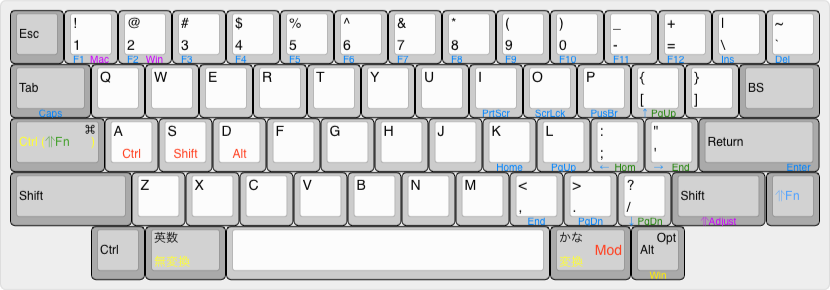
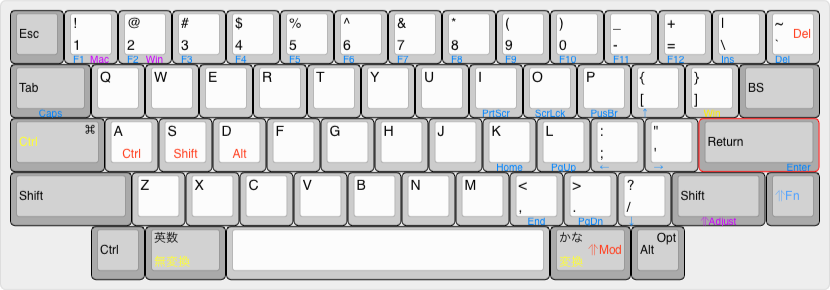
Remove windows extra function layer (and move win to Fn + ])

diff --git a/keyboards/hhkb/keymaps/qmotas/keymap.c b/keyboards/hhkb/keymaps/qmotas/keymap.c
@@ -5,14 +5,12 @@
 
 enum layers
 {
-    OSX_BASE = 0,
-    WIN_BASE,
-    WIN_CTRL,
-    FN_MODS,
-    FN_HHKB_OSX,
-    FN_HHKB_WIN,
-    FN_WIN_CTRL,
-    ADJUSTIVE
+  OSX_BASE = 0,
+  WIN_BASE,
+  FN_MODS,
+  FN_HHKB_OSX,
+  FN_HHKB_WIN,
+  ADJUSTIVE
 };
 
 const uint16_t PROGMEM keymaps[][MATRIX_ROWS][MATRIX_COLS] = {
@@ -43,7 +41,7 @@ const uint16_t PROGMEM keymaps[][MATRIX_ROWS][MATRIX_COLS] = {
      * |-----------------------------------------------------------------------------------------|
      * |        |     |     |     |     |     |     |     |     |     |     |     |     |        |
      * |-----------------------------------------------------------------------------------------|
-     * | Ctrl(Fn) |     |     |     |     |     |     |     |     |     |     |     |            |
+     * |   Ctrl   |     |     |     |     |     |     |     |     |     |     |     |            |
      * |-----------------------------------------------------------------------------------------|
      * |             |     |     |     |     |     |     |     |     |     |     |         | Fn  |
      * `-----------------------------------------------------------------------------------------'
@@ -53,33 +51,13 @@ const uint16_t PROGMEM keymaps[][MATRIX_ROWS][MATRIX_COLS] = {
     [WIN_BASE] = LAYOUT(
         _______, _______, _______, _______, _______, _______, _______, _______, _______, _______, _______, _______, _______, _______, _______,
         _______, _______, _______, _______, _______, _______, _______, _______, _______, _______, _______, _______, _______, _______,
-        LM(WIN_CTRL, MOD_LCTL), _______, _______, _______, _______, _______, _______, _______, _______, _______, _______, _______, _______,
+        KC_LCTL, _______, _______, _______, _______, _______, _______, _______, _______, _______, _______, _______, _______,
         _______, _______, _______, _______, _______, _______, _______, _______, _______, _______, _______, _______, MO(FN_HHKB_WIN),
         _______, LALT_T(KC_MHEN), _______, LT(FN_MODS, KC_HENK), _______),
 
-    /* Ctrl layer for Windows
-     * ,-----------------------------------------------------------------------------------------.
-     * |     |     |     |     |     |     |     |     |     |     |     |     |     |     |     |
-     * |-----------------------------------------------------------------------------------------|
-     * |        |     |     |     |     |     |     |     |     |     |     |     |     |        |
-     * |-----------------------------------------------------------------------------------------|
-     * |          |     |     |     |     |     |     |     |     |     |     |     |            |
-     * |-----------------------------------------------------------------------------------------|
-     * |             |     |     |     |     |     |     |     |     |     |     |         |Fn_W |
-     * `-----------------------------------------------------------------------------------------'
-     *           |     |        |                                    |       |     |
-     *           `-----------------------------------------------------------------'
-     */
-    [WIN_CTRL] = LAYOUT(
-        _______, _______, _______, _______, _______, _______, _______, _______, _______, _______, _______, _______, _______, _______, _______,
-        _______, _______, _______, _______, _______, _______, _______, _______, _______, _______, _______, _______, _______, _______,
-        _______, _______, _______, _______, _______, _______, _______, _______, _______, _______, _______, _______, _______,
-        _______, _______, _______, _______, _______, _______, _______, _______, _______, _______, _______, _______, MO(FN_WIN_CTRL),
-        _______, _______, _______, _______, _______),
-
     /* Modifiers layer
      * ,-----------------------------------------------------------------------------------------.
-     * |     |     |     |     |     |     |     |     |     |     |     |     |     |     |     |
+     * |     |     |     |     |     |     |     |     |     |     |     |     |     |     | Del |
      * |-----------------------------------------------------------------------------------------|
      * |        |     |     |     |     |     |     |     |     |     |     |     |     |        |
      * |-----------------------------------------------------------------------------------------|
@@ -91,7 +69,7 @@ const uint16_t PROGMEM keymaps[][MATRIX_ROWS][MATRIX_COLS] = {
      *           `-----------------------------------------------------------------'
      */
     [FN_MODS] = LAYOUT(
-        _______, _______, _______, _______, _______, _______, _______, _______, _______, _______, _______, _______, _______, _______, _______,
+        _______, _______, _______, _______, _______, _______, _______, _______, _______, _______, _______, _______, _______, _______, KC_DEL,
         _______, _______, _______, _______, _______, _______, _______, _______, _______, _______, _______, _______, _______, _______,
         _______, KC_LCTL, KC_LSFT, KC_LALT, _______, _______, _______, _______, _______, _______, _______, _______, _______,
         _______, _______, _______, _______, _______, _______, _______, _______, _______, _______, _______, _______, _______,
@@ -121,40 +99,20 @@ const uint16_t PROGMEM keymaps[][MATRIX_ROWS][MATRIX_COLS] = {
      * ,-----------------------------------------------------------------------------------------.
      * |     | F1  | F2  | F3  | F4  | F5  | F6  | F7  | F8  | F9  | F10 | F11 | F12 | Ins | Del |
      * |-----------------------------------------------------------------------------------------|
-     * |  Caps  |     |     |     |     |     |     |     | Psc | Slk | Pus | Up  |     |  BSp   |
+     * |  Caps  |     |     |     |     |     |     |     | Psc | Slk | Pus | Up  | Win |  BSp   |
      * |-----------------------------------------------------------------------------------------|
-     * |  Fn_Win  |     |     |     |     |     |     |     | Hom | PgU | Lef | Rig |   Enter    |
+     * |          |     |     |     |     |     |     |     | Hom | PgU | Lef | Rig |   Enter    |
      * |-----------------------------------------------------------------------------------------|
      * |             |     |     |     |     |     |     |     | End | PgD | Dow |  Fn_ADJ |     |
-     * `-----------------------------------------------------------------------------------------'
-     *           |     |        |                RWin                |       |     |
-     *           `-----------------------------------------------------------------'
-     */
-    [FN_HHKB_WIN] = LAYOUT(
-        _______, KC_F1, KC_F2, KC_F3, KC_F4, KC_F5, KC_F6, KC_F7, KC_F8, KC_F9, KC_F10, KC_F11, KC_F12, KC_INS, KC_DEL,
-        KC_CAPS, _______, _______, _______, _______, _______, _______, _______, KC_PSCR, KC_SLCK, KC_PAUS, KC_UP, _______, KC_BSPC,
-        MO(FN_WIN_CTRL), _______, _______, _______, _______, _______, _______, _______, KC_HOME, KC_PGUP, KC_LEFT, KC_RGHT, KC_PENT,
-        _______, _______, _______, _______, _______, _______, _______, _______, KC_END, KC_PGDN, KC_DOWN, MO(ADJUSTIVE), _______,
-        _______, _______, KC_RWIN, _______, _______),
-
-    /* Windows functions overriding layer
-     * ,-----------------------------------------------------------------------------------------.
-     * |     |     |     |     |     |     |     |     |     |     |     |     |     |     |     |
-     * |-----------------------------------------------------------------------------------------|
-     * |        |     |     |     |     |     |     |     |     |     |     | PgU |     |        |
-     * |-----------------------------------------------------------------------------------------|
-     * |          |     |     |     |     |     |     |     |     |     | Hom | End |            |
-     * |-----------------------------------------------------------------------------------------|
-     * |             |     |     |     |     |     |     |     |     |     | PgD |         |     |
      * `-----------------------------------------------------------------------------------------'
      *           |     |        |                                    |       |     |
      *           `-----------------------------------------------------------------'
      */
-    [FN_WIN_CTRL] = LAYOUT(
-        _______, _______, _______, _______, _______, _______, _______, _______, _______, _______, _______, _______, _______, _______, _______,
-        _______, _______, _______, _______, _______, _______, _______, _______, _______, _______, _______, KC_PGUP, _______, _______,
-        _______, _______, _______, _______, _______, _______, _______, _______, _______, _______, KC_HOME, KC_END, _______,
-        _______, _______, _______, _______, _______, _______, _______, _______, _______, _______, KC_PGDN, _______, _______,
+    [FN_HHKB_WIN] = LAYOUT(
+        _______, KC_F1, KC_F2, KC_F3, KC_F4, KC_F5, KC_F6, KC_F7, KC_F8, KC_F9, KC_F10, KC_F11, KC_F12, KC_INS, KC_DEL,
+        KC_CAPS, _______, _______, _______, _______, _______, _______, _______, KC_PSCR, KC_SLCK, KC_PAUS, KC_UP, KC_RWIN, KC_BSPC,
+        _______, _______, _______, _______, _______, _______, _______, _______, KC_HOME, KC_PGUP, KC_LEFT, KC_RGHT, KC_PENT,
+        _______, _______, _______, _______, _______, _______, _______, _______, KC_END, KC_PGDN, KC_DOWN, MO(ADJUSTIVE), _______,
         _______, _______, _______, _______, _______),
 
     /* Adjustive control
@@ -183,19 +141,19 @@ const uint16_t PROGMEM fn_actions[] = {
 
 const macro_t *action_get_macro(keyrecord_t *record, uint8_t id, uint8_t opt)
 {
-    // MACRODOWN only works in this function
-    switch (id)
+  // MACRODOWN only works in this function
+  switch (id)
+  {
+  case 0:
+    if (record->event.pressed)
     {
-    case 0:
-        if (record->event.pressed)
-        {
-            register_code(KC_RSFT);
-        }
-        else
-        {
-            unregister_code(KC_RSFT);
-        }
-        break;
+      register_code(KC_RSFT);
     }
-    return MACRO_NONE;
+    else
+    {
+      unregister_code(KC_RSFT);
+    }
+    break;
+  }
+  return MACRO_NONE;
 };
